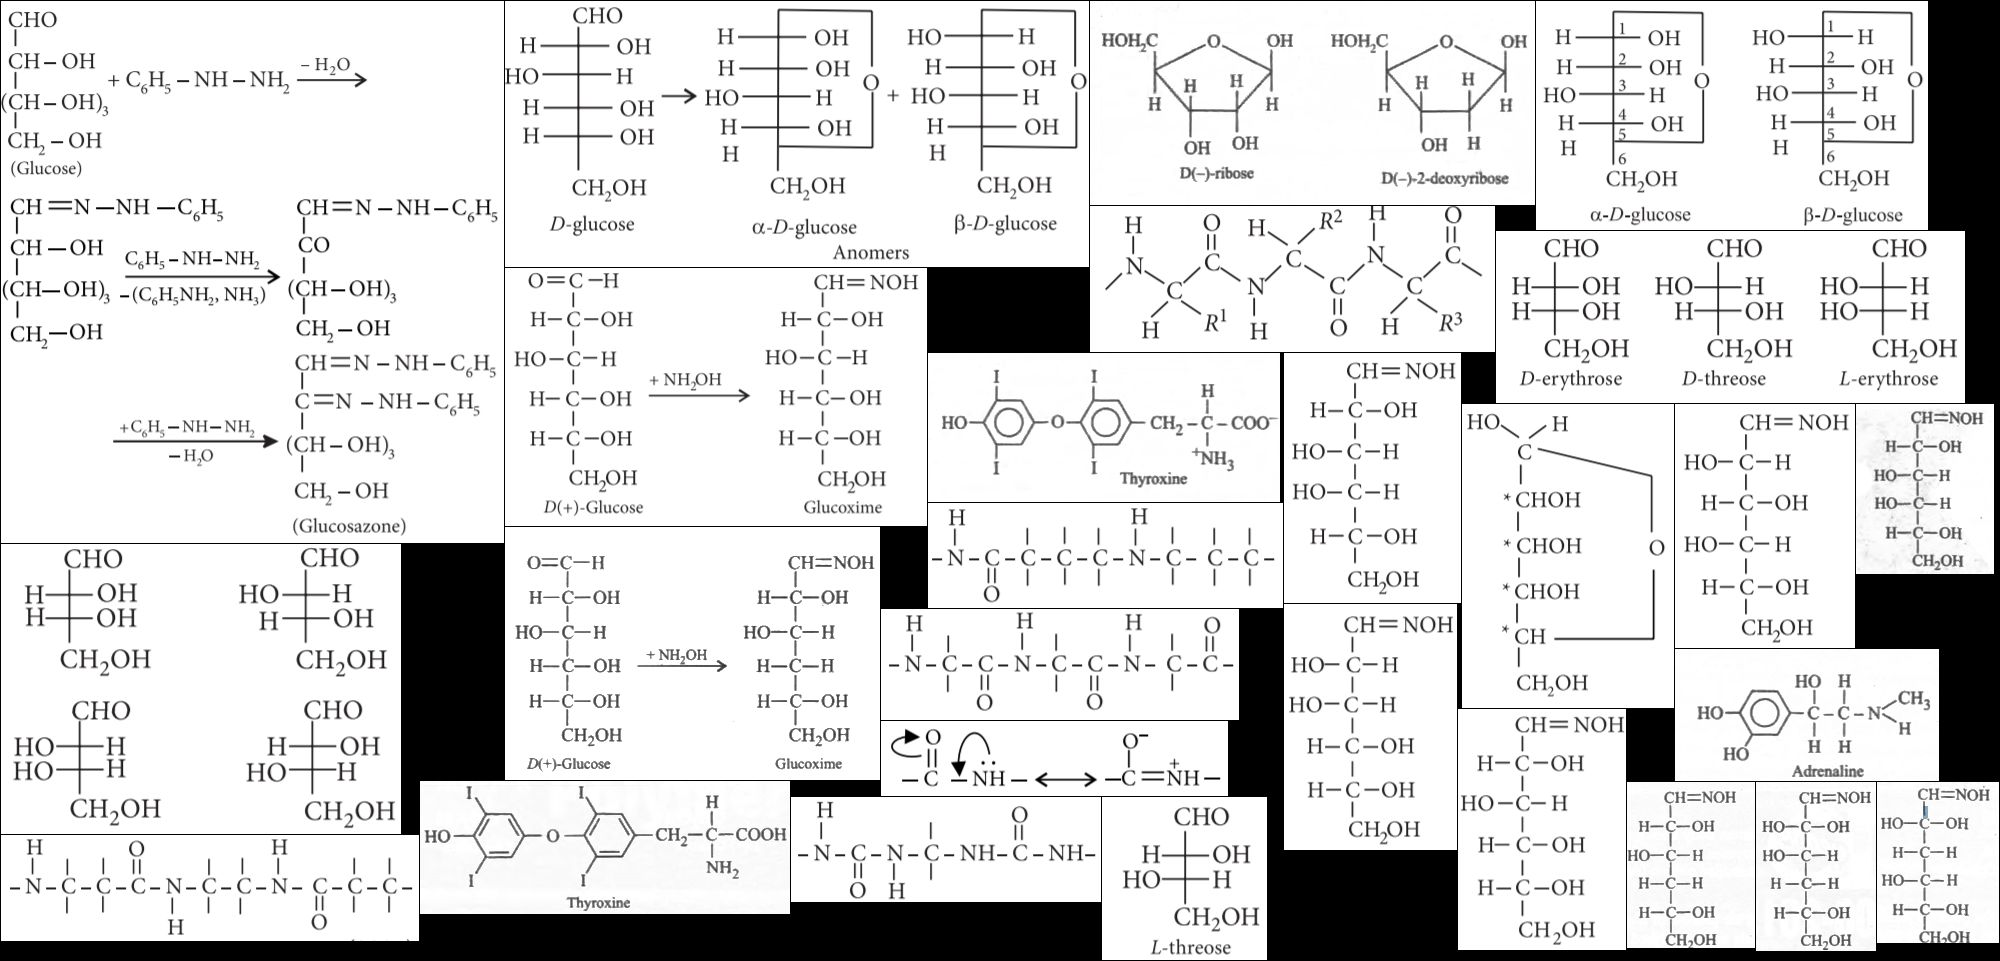
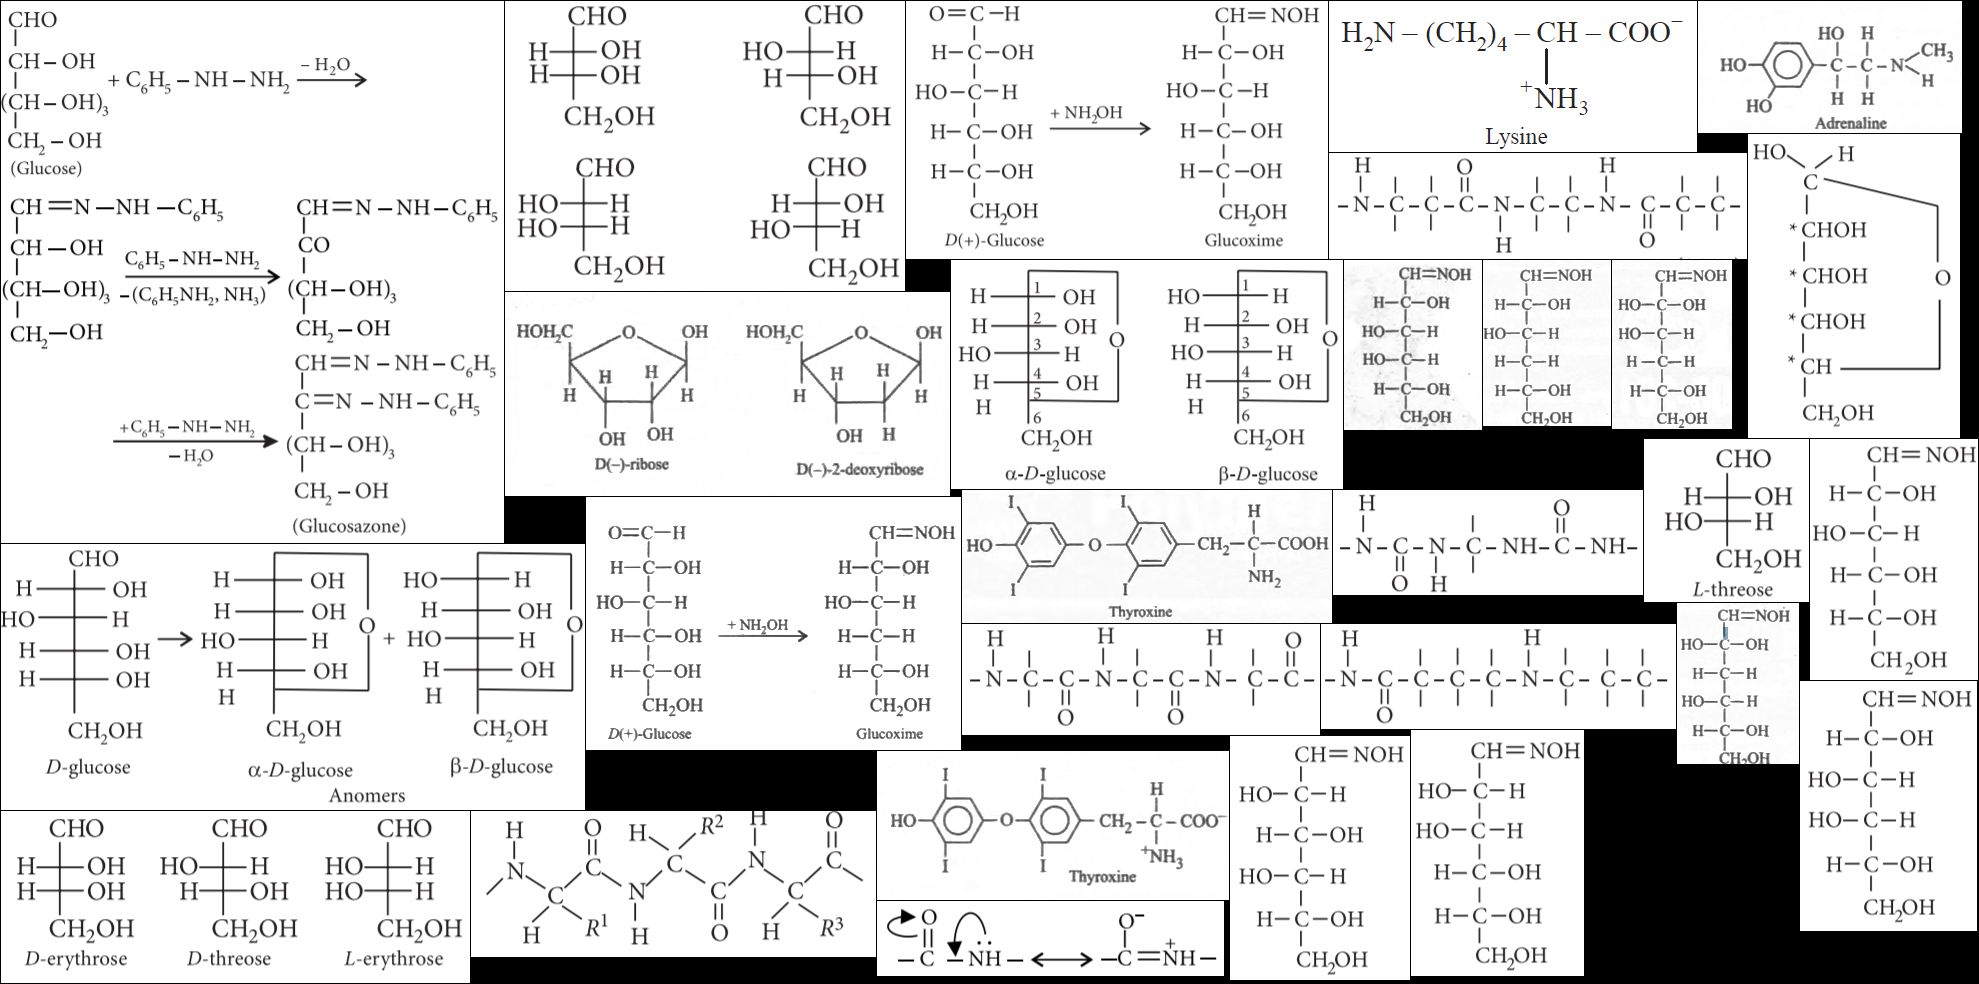
Fixed.

Changed region(s): [[0.0, 0.0, 1.0, 0.999], [0.0, 0.0, 0.0308, 0.0312]]

diff --git a/img/medical/neet/chchap/ch_xii_ch14.css b/img/medical/neet/chchap/ch_xii_ch14.css
@@ -8,85 +8,88 @@ Responsive: <div class="yourspritesname"></div>
 
 
 .Biomolecules_11_o_1 {max-width:177px; max-height:250px; }
-.Biomolecules_11_o_1::after {content: '\00a0';display: inline-block; width:177px; height:250px; background-position: 70.43335161821174% 49.648382559774966%;background-size: 1129.9435028248588% 384.4%;background-image: url(ch_xii_ch14.jpg);padding: 0; }
+.Biomolecules_11_o_1::after {content: '\00a0';display: inline-block; width:177px; height:250px; background-position: 99.88901220865705% 92.77929155313352%;background-size: 1118.0790960451977% 393.6%;background-image: url(ch_xii_ch14.jpg);padding: 0; }
 div.Biomolecules_11_o_1::after {max-width:177px; width:100%;height:0;padding: 0 0 141.24293785310735% 0;}
 .Biomolecules_11_o_2 {max-width:173px; max-height:246px; }
-.Biomolecules_11_o_2::after {content: '\00a0';display: inline-block; width:173px; height:246px; background-position: 70.27914614121511% 84.47552447552448%;background-size: 1156.0693641618498% 390.650406504065%;background-image: url(ch_xii_ch14.jpg);padding: 0; }
+.Biomolecules_11_o_2::after {content: '\00a0';display: inline-block; width:173px; height:246px; background-position: 78.12846068660022% 98.9159891598916%;background-size: 1143.9306358381502% 400%;background-image: url(ch_xii_ch14.jpg);padding: 0; }
 div.Biomolecules_11_o_2::after {max-width:173px; width:100%;height:0;padding: 0 0 142.19653179190752% 0;}
 .Biomolecules_11_o_3 {max-width:180px; max-height:244px; }
-.Biomolecules_11_o_3::after {content: '\00a0';display: inline-block; width:180px; height:244px; background-position: 92.03296703296704% 56.34588563458856%;background-size: 1111.111111111111% 393.8524590163934%;background-image: url(ch_xii_ch14.jpg);padding: 0; }
+.Biomolecules_11_o_3::after {content: '\00a0';display: inline-block; width:180px; height:244px; background-position: 68.37131739855475% 99.45945945945945%;background-size: 1099.4444444444443% 403.27868852459017%;background-image: url(ch_xii_ch14.jpg);padding: 0; }
 div.Biomolecules_11_o_3::after {max-width:180px; width:100%;height:0;padding: 0 0 135.55555555555554% 0;}
 .Biomolecules_11_o_4 {max-width:168px; max-height:241px; }
-.Biomolecules_11_o_4::after {content: '\00a0';display: inline-block; width:168px; height:241px; background-position: 79.58515283842794% 98.47222222222223%;background-size: 1190.4761904761904% 398.7551867219917%;background-image: url(ch_xii_ch14.jpg);padding: 0; }
+.Biomolecules_11_o_4::after {content: '\00a0';display: inline-block; width:168px; height:241px; background-position: 99.94478188845942% 59.084791386271874%;background-size: 1177.9761904761904% 408.298755186722%;background-image: url(ch_xii_ch14.jpg);padding: 0; }
 div.Biomolecules_11_o_4::after {max-width:168px; width:100%;height:0;padding: 0 0 143.45238095238096% 0;}
 .Biomolecules_11_s {max-width:422px; max-height:258px; }
-.Biomolecules_11_s::after {content: '\00a0';display: inline-block; width:422px; height:258px; background-position: 32.00253485424588% 38.12233285917497%;background-size: 473.93364928909955% 372.48062015503876%;background-image: url(ch_xii_ch14.jpg);padding: 0; }
+.Biomolecules_11_s::after {content: '\00a0';display: inline-block; width:422px; height:258px; background-position: 58.188824662813104% 0.13774104683195593%;background-size: 468.957345971564% 381.3953488372093%;background-image: url(ch_xii_ch14.jpg);padding: 0; }
 div.Biomolecules_11_s::after {max-width:422px; width:100%;height:0;padding: 0 0 61.13744075829384% 0;}
 .Biomolecules_32_o_1 {max-width:310px; max-height:105px; }
-.Biomolecules_32_o_1::after {content: '\00a0';display: inline-block; width:310px; height:105px; background-position: 46.80473372781065% 93.10747663551402%;background-size: 645.1612903225806% 915.2380952380952%;background-image: url(ch_xii_ch14.jpg);padding: 0; }
+.Biomolecules_32_o_1::after {content: '\00a0';display: inline-block; width:310px; height:105px; background-position: 79.8681845416417% 55.745164960182024%;background-size: 638.3870967741935% 937.1428571428571%;background-image: url(ch_xii_ch14.jpg);padding: 0; }
 div.Biomolecules_32_o_1::after {max-width:310px; width:100%;height:0;padding: 0 0 33.87096774193548% 0;}
 .Biomolecules_32_o_2 {max-width:355px; max-height:105px; }
-.Biomolecules_32_o_2::after {content: '\00a0';display: inline-block; width:355px; height:105px; background-position: 56.41337386018237% 58.76168224299065%;background-size: 563.3802816901408% 915.2380952380952%;background-image: url(ch_xii_ch14.jpg);padding: 0; }
+.Biomolecules_32_o_2::after {content: '\00a0';display: inline-block; width:355px; height:105px; background-position: 81.3423645320197% 70.98976109215018%;background-size: 557.4647887323944% 937.1428571428571%;background-image: url(ch_xii_ch14.jpg);padding: 0; }
 div.Biomolecules_32_o_2::after {max-width:355px; width:100%;height:0;padding: 0 0 29.577464788732396% 0;}
 .Biomolecules_32_o_3 {max-width:358px; max-height:111px; }
-.Biomolecules_32_o_3::after {content: '\00a0';display: inline-block; width:358px; height:111px; background-position: 53.65408038976857% 71.6470588235294%;background-size: 558.659217877095% 865.7657657657658%;background-image: url(ch_xii_ch14.jpg);padding: 0; }
+.Biomolecules_32_o_3::after {content: '\00a0';display: inline-block; width:358px; height:111px; background-position: 59.34608266502159% 71.47766323024055%;background-size: 552.7932960893854% 886.4864864864865%;background-image: url(ch_xii_ch14.jpg);padding: 0; }
 div.Biomolecules_32_o_3::after {max-width:358px; width:100%;height:0;padding: 0 0 31.00558659217877% 0;}
 .Biomolecules_32_o_4 {max-width:418px; max-height:106px; }
-.Biomolecules_32_o_4::after {content: '\00a0';display: inline-block; width:418px; height:106px; background-position: 0.0632111251580278% 97.6608187134503%;background-size: 478.4688995215311% 906.6037735849056%;background-image: url(ch_xii_ch14.jpg);padding: 0; }
+.Biomolecules_32_o_4::after {content: '\00a0';display: inline-block; width:418px; height:106px; background-position: 85.13773222293402% 17.425968109339408%;background-size: 473.444976076555% 928.3018867924528%;background-image: url(ch_xii_ch14.jpg);padding: 0; }
 div.Biomolecules_32_o_4::after {max-width:418px; width:100%;height:0;padding: 0 0 25.358851674641148% 0;}
 .Biomolecules_32_s {max-width:405px; max-height:146px; }
-.Biomolecules_32_s::after {content: '\00a0';display: inline-block; width:405px; height:146px; background-position: 68.3385579937304% 25.2760736196319%;background-size: 493.82716049382714% 658.2191780821918%;background-image: url(ch_xii_ch14.jpg);padding: 0; }
+.Biomolecules_32_s::after {content: '\00a0';display: inline-block; width:405px; height:146px; background-position: 29.923761118170265% 96.77804295942721%;background-size: 488.641975308642% 673.972602739726%;background-image: url(ch_xii_ch14.jpg);padding: 0; }
 div.Biomolecules_32_s::after {max-width:405px; width:100%;height:0;padding: 0 0 36.04938271604938% 0;}
 .Biomolecules_36_s {max-width:212px; max-height:304px; }
-.Biomolecules_36_s::after {content: '\00a0';display: inline-block; width:212px; height:304px; background-position: 81.76733780760627% 61.49162861491629%;background-size: 943.3962264150944% 316.11842105263156%;background-image: url(ch_xii_ch14.jpg);padding: 0; }
+.Biomolecules_36_s::after {content: '\00a0';display: inline-block; width:212px; height:304px; background-position: 98.9247311827957% 19.705882352941178%;background-size: 933.4905660377359% 323.6842105263158%;background-image: url(ch_xii_ch14.jpg);padding: 0; }
 div.Biomolecules_36_s::after {max-width:212px; width:100%;height:0;padding: 0 0 143.39622641509433% 0;}
 .Biomolecules_47 {max-width:347px; max-height:75px; }
-.Biomolecules_47::after {content: '\00a0';display: inline-block; width:347px; height:75px; background-position: 53.29703569267998% 81.37697516930022%;background-size: 576.3688760806916% 1281.3333333333333%;background-image: url(ch_xii_ch14.jpg);padding: 0; }
+.Biomolecules_47::after {content: '\00a0';display: inline-block; width:347px; height:75px; background-position: 53.73774509803921% 99.11991199119912%;background-size: 570.3170028818444% 1312%;background-image: url(ch_xii_ch14.jpg);padding: 0; }
 div.Biomolecules_47::after {max-width:347px; width:100%;height:0;padding: 0 0 21.613832853025936% 0;}
 .Biomolecules_50 {max-width:584px; max-height:266px; }
-.Biomolecules_50::after {content: '\00a0';display: inline-block; width:584px; height:266px; background-position: 35.663841807909606% 0.14388489208633093%;background-size: 342.4657534246575% 361.2781954887218%;background-image: url(ch_xii_ch14.jpg);padding: 0; }
+.Biomolecules_50::after {content: '\00a0';display: inline-block; width:584px; height:266px; background-position: 0.07168458781362007% 75.76601671309193%;background-size: 338.86986301369865% 369.9248120300752%;background-image: url(ch_xii_ch14.jpg);padding: 0; }
 div.Biomolecules_50::after {max-width:584px; width:100%;height:0;padding: 0 0 45.54794520547945% 0;}
 .Biomolecules_54 {max-width:503px; max-height:542px; }
-.Biomolecules_54::after {content: '\00a0';display: inline-block; width:503px; height:542px; background-position: 0.06680026720106881% 0.2386634844868735%;background-size: 397.61431411530816% 177.30627306273064%;background-image: url(ch_xii_ch14.jpg);padding: 0; }
+.Biomolecules_54::after {content: '\00a0';display: inline-block; width:503px; height:542px; background-position: 0.06775067750677506% 0.22624434389140272%;background-size: 393.4393638170974% 181.54981549815497%;background-image: url(ch_xii_ch14.jpg);padding: 0; }
 div.Biomolecules_54::after {max-width:503px; width:100%;height:0;padding: 0 0 107.7534791252485% 0;}
 .Biomolecules_59 {max-width:392px; max-height:229px; }
-.Biomolecules_59::after {content: '\00a0';display: inline-block; width:392px; height:229px; background-position: 95.5223880597015% 0.1366120218579235%;background-size: 510.2040816326531% 419.65065502183404%;background-image: url(ch_xii_ch14.jpg);padding: 0; }
+.Biomolecules_59::after {content: '\00a0';display: inline-block; width:392px; height:229px; background-position: 59.92438563327032% 34.437086092715234%;background-size: 504.8469387755102% 429.6943231441048%;background-image: url(ch_xii_ch14.jpg);padding: 0; }
 div.Biomolecules_59::after {max-width:392px; width:100%;height:0;padding: 0 0 58.41836734693877% 0;}
 .Biomolecules_7 {max-width:400px; max-height:290px; }
-.Biomolecules_7::after {content: '\00a0';display: inline-block; width:400px; height:290px; background-position: 0.0625% 81.07302533532042%;background-size: 500% 331.37931034482756%;background-image: url(ch_xii_ch14.jpg);padding: 0; }
+.Biomolecules_7::after {content: '\00a0';display: inline-block; width:400px; height:290px; background-position: 31.982267257758075% 0.1440922190201729%;background-size: 494.75% 339.3103448275862%;background-image: url(ch_xii_ch14.jpg);padding: 0; }
 div.Biomolecules_7::after {max-width:400px; width:100%;height:0;padding: 0 0 72.5% 0;}
 .Biomolecules_7_s {max-width:469px; max-height:172px; }
-.Biomolecules_7_s::after {content: '\00a0';display: inline-block; width:469px; height:172px; background-position: 97.7139124755062% 29.277566539923953%;background-size: 426.43923240938165% 558.7209302325581%;background-image: url(ch_xii_ch14.jpg);padding: 0; }
+.Biomolecules_7_s::after {content: '\00a0';display: inline-block; width:469px; height:172px; background-position: 0.06622516556291391% 99.8768472906404%;background-size: 421.96162046908313% 572.0930232558139%;background-image: url(ch_xii_ch14.jpg);padding: 0; }
 div.Biomolecules_7_s::after {max-width:469px; width:100%;height:0;padding: 0 0 36.67377398720682% 0;}
 .Biomolecules_7_s_1 {max-width:165px; max-height:163px; }
-.Biomolecules_7_s_1::after {content: '\00a0';display: inline-block; width:165px; height:163px; background-position: 60.05449591280654% 99.87468671679198%;background-size: 1212.121212121212% 589.5705521472393%;background-image: url(ch_xii_ch14.jpg);padding: 0; }
+.Biomolecules_7_s_1::after {content: '\00a0';display: inline-block; width:165px; height:163px; background-position: 90.6284454244763% 53.47137637028015%;background-size: 1199.3939393939395% 603.680981595092%;background-image: url(ch_xii_ch14.jpg);padding: 0; }
 div.Biomolecules_7_s_1::after {max-width:165px; width:100%;height:0;padding: 0 0 98.78787878787878% 0;}
 .nc14_18a {max-width:138px; max-height:170px; }
-.nc14_18a::after {content: '\00a0';display: inline-block; width:138px; height:170px; background-position: 99.67776584317937% 51.07458912768647%;background-size: 1449.2753623188405% 565.2941176470588%;background-image: url(ch_xii_ch14.jpg);padding: 0; }
+.nc14_18a::after {content: '\00a0';display: inline-block; width:138px; height:170px; background-position: 73.00380228136882% 31.94103194103194%;background-size: 1434.0579710144928% 578.8235294117648%;background-image: url(ch_xii_ch14.jpg);padding: 0; }
 div.nc14_18a::after {max-width:138px; width:100%;height:0;padding: 0 0 123.18840579710145% 0;}
 .nc14_18b {max-width:120px; max-height:169px; }
-.nc14_18b::after {content: '\00a0';display: inline-block; width:120px; height:169px; background-position: 93.40425531914893% 98.73737373737374%;background-size: 1666.6666666666667% 568.6390532544378%;background-image: url(ch_xii_ch14.jpg);padding: 0; }
+.nc14_18b::after {content: '\00a0';display: inline-block; width:120px; height:169px; background-position: 86.7132867132867% 31.901840490797547%;background-size: 1649.1666666666667% 582.2485207100592%;background-image: url(ch_xii_ch14.jpg);padding: 0; }
 div.nc14_18b::after {max-width:120px; width:100%;height:0;padding: 0 0 140.83333333333334% 0;}
 .nc14_18c {max-width:122px; max-height:161px; }
-.nc14_18c::after {content: '\00a0';display: inline-block; width:122px; height:161px; background-position: 99.94675186368477% 97.75%;background-size: 1639.344262295082% 596.8944099378882%;background-image: url(ch_xii_ch14.jpg);padding: 0; }
+.nc14_18c::after {content: '\00a0';display: inline-block; width:122px; height:161px; background-position: 90.30694668820678% 73.2685297691373%;background-size: 1622.1311475409836% 611.1801242236024%;background-image: url(ch_xii_ch14.jpg);padding: 0; }
 div.nc14_18c::after {max-width:122px; width:100%;height:0;padding: 0 0 131.9672131147541% 0;}
 .nc14_18d {max-width:128px; max-height:166px; }
-.nc14_18d::after {content: '\00a0';display: inline-block; width:128px; height:166px; background-position: 86.91239316239316% 98.36477987421384%;background-size: 1562.5% 578.9156626506024%;background-image: url(ch_xii_ch14.jpg);padding: 0; }
+.nc14_18d::after {content: '\00a0';display: inline-block; width:128px; height:166px; background-position: 80.11885467314966% 31.78484107579462%;background-size: 1546.09375% 592.7710843373494%;background-image: url(ch_xii_ch14.jpg);padding: 0; }
 div.nc14_18d::after {max-width:128px; width:100%;height:0;padding: 0 0 129.6875% 0;}
 .nc14_18sol {max-width:375px; max-height:253px; }
-.nc14_18sol::after {content: '\00a0';display: inline-block; width:375px; height:253px; background-position: 31.076923076923077% 74.43502824858757%;background-size: 533.3333333333334% 379.84189723320156%;background-image: url(ch_xii_ch14.jpg);padding: 0; }
+.nc14_18sol::after {content: '\00a0';display: inline-block; width:375px; height:253px; background-position: 36.53366583541147% 67.9890560875513%;background-size: 527.7333333333333% 388.9328063241107%;background-image: url(ch_xii_ch14.jpg);padding: 0; }
 div.nc14_18sol::after {max-width:375px; width:100%;height:0;padding: 0 0 67.46666666666667% 0;}
+.nc14_2020_2_sol {max-width:368px; max-height:151px; }
+.nc14_2020_2_sol::after {content: '\00a0';display: inline-block; width:368px; height:151px; background-position: 82.4953445065177% 0.12004801920768307%;background-size: 537.7717391304348% 651.6556291390729%;background-image: url(ch_xii_ch14.jpg);padding: 0; }
+div.nc14_2020_2_sol::after {max-width:368px; width:100%;height:0;padding: 0 0 41.03260869565217% 0;}
 .nc14_4sol {max-width:445px; max-height:204px; }
-.nc14_4sol::after {content: '\00a0';display: inline-block; width:445px; height:204px; background-position: 70.09646302250803% 0.13210039630118892%;background-size: 449.438202247191% 471.078431372549%;background-image: url(ch_xii_ch14.jpg);padding: 0; }
+.nc14_4sol::after {content: '\00a0';display: inline-block; width:445px; height:204px; background-position: 32.920469361147326% 37.43589743589744%;background-size: 444.7191011235955% 482.3529411764706%;background-image: url(ch_xii_ch14.jpg);padding: 0; }
 div.nc14_4sol::after {max-width:445px; width:100%;height:0;padding: 0 0 45.842696629213485% 0;}
 .nc14_7sola {max-width:264px; max-height:132px; }
-.nc14_7sola::after {content: '\00a0';display: inline-block; width:264px; height:132px; background-position: 96.48617511520737% 78.28709288299156%;background-size: 757.5757575757576% 728.030303030303%;background-image: url(ch_xii_ch14.jpg);padding: 0; }
+.nc14_7sola::after {content: '\00a0';display: inline-block; width:264px; height:132px; background-position: 99.00874635568513% 0.11737089201877934%;background-size: 749.6212121212121% 745.4545454545455%;background-image: url(ch_xii_ch14.jpg);padding: 0; }
 div.nc14_7sola::after {max-width:264px; width:100%;height:0;padding: 0 0 50% 0;}
 .nc14_7solb {max-width:352px; max-height:149px; }
-.nc14_7solb::after {content: '\00a0';display: inline-block; width:352px; height:149px; background-position: 56.310679611650485% 43.47290640394089%;background-size: 568.1818181818181% 644.9664429530201%;background-image: url(ch_xii_ch14.jpg);padding: 0; }
+.nc14_7solb::after {content: '\00a0';display: inline-block; width:352px; height:149px; background-position: 53.902888752304854% 89.94011976047904%;background-size: 562.2159090909091% 660.4026845637584%;background-image: url(ch_xii_ch14.jpg);padding: 0; }
 div.nc14_7solb::after {max-width:352px; width:100%;height:0;padding: 0 0 42.32954545454545% 0;}
 .nc14_9sol {max-width:370px; max-height:133px; }
-.nc14_9sol::after {content: '\00a0';display: inline-block; width:370px; height:133px; background-position: 25.766871165644172% 94.32367149758454%;background-size: 540.5405405405405% 722.5563909774436%;background-image: url(ch_xii_ch14.jpg);padding: 0; }
+.nc14_9sol::after {content: '\00a0';display: inline-block; width:370px; height:133px; background-position: 59.78868862647607% 57.57931844888367%;background-size: 534.8648648648649% 739.8496240601504%;background-image: url(ch_xii_ch14.jpg);padding: 0; }
 div.nc14_9sol::after {max-width:370px; width:100%;height:0;padding: 0 0 35.945945945945944% 0;}
 
-/* $TexturePacker:SmartUpdate:051f7a09f6bbd5efc234b03700bef4b4:9faab4417374a9b734cdcf0558be6857:4538c7a90a6155f25c493654522b8be9$ */
+/* $TexturePacker:SmartUpdate:a4b00df0497c89164a99a8346f304062:5bbd391c14382a07a93ded76d5b97bfb:4538c7a90a6155f25c493654522b8be9$ */
